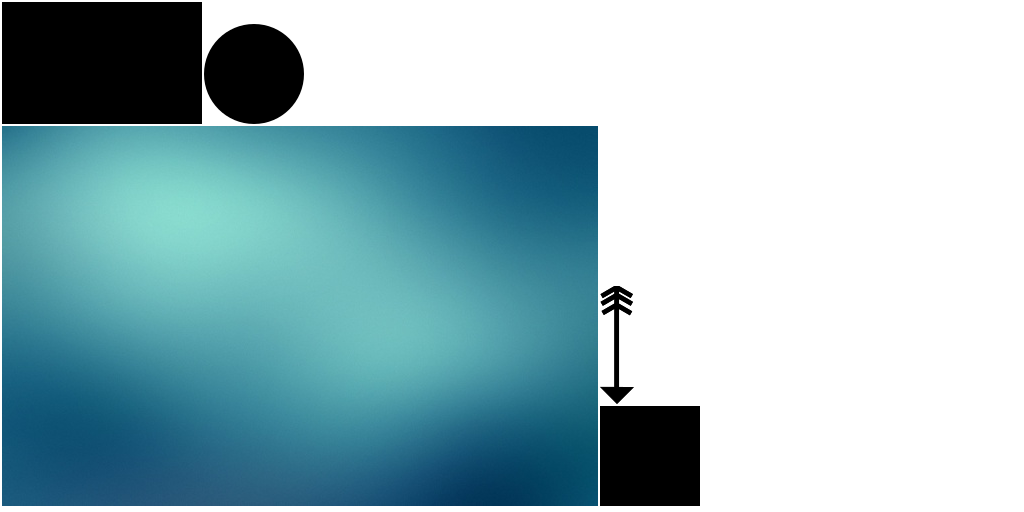
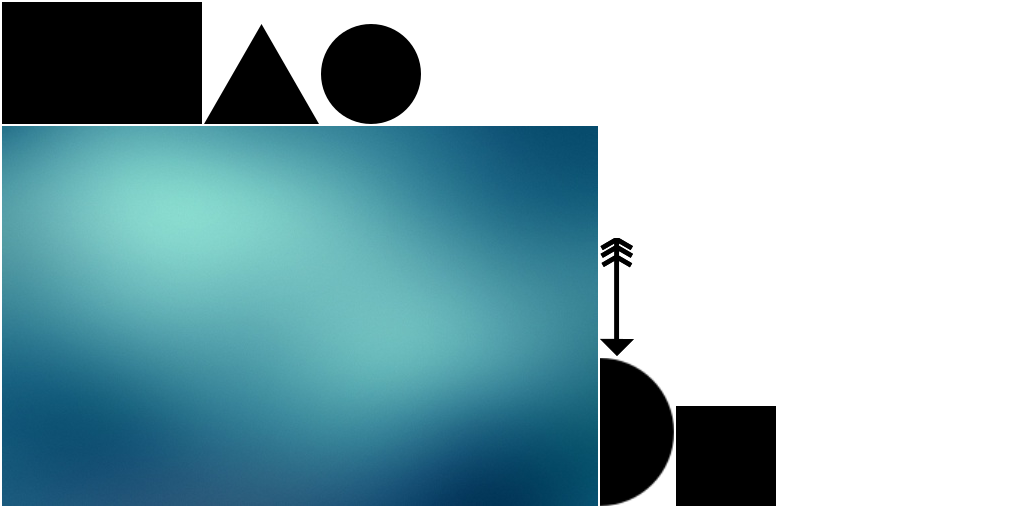
Created Shape classes, begin Screen integration

Changed region(s): [[0.5625, 0.6562, 0.7812, 1.0], [0.1875, 0.0312, 0.4375, 0.25], [0.5625, 0.4688, 0.625, 0.625]]

diff --git a/core/src/com/zenithlabs/shapeescape/ShapeEscape.java b/core/src/com/zenithlabs/shapeescape/ShapeEscape.java
@@ -3,6 +3,7 @@ package com.zenithlabs.shapeescape;
 import com.badlogic.gdx.Application;
 import com.badlogic.gdx.ApplicationAdapter;
 import com.badlogic.gdx.ApplicationListener;
+import com.badlogic.gdx.Game;
 import com.badlogic.gdx.Gdx;
 import com.badlogic.gdx.assets.AssetManager;
 import com.badlogic.gdx.graphics.GL20;
@@ -11,59 +12,18 @@ import com.badlogic.gdx.graphics.g2d.SpriteBatch;
 import com.zenithlabs.shapeescape.game.Assets;
 import com.zenithlabs.shapeescape.game.WorldController;
 import com.zenithlabs.shapeescape.game.WorldRenderer;
+import com.zenithlabs.shapeescape.screens.MenuScreen;
 
-public class ShapeEscape implements ApplicationListener {
-	private WorldController worldController;
-	private WorldRenderer worldRenderer;
-	private boolean paused;
-	
+public class ShapeEscape extends Game {
+
 	@Override
 	public void create () {
 		//Set log level to DEBUG - for publishing switch to NONE
 		Gdx.app.setLogLevel(Application.LOG_DEBUG);
 		//Load assets
 		Assets.getInstance().init(new AssetManager());
-		//Initialize controller and renderer
-		worldController = new WorldController();
-		worldRenderer = new WorldRenderer(worldController);
-	}
-
-	@Override
-	public void render () {
-		//Update game world before rendering takes place
-		worldController.update(Gdx.graphics.getDeltaTime());
-		//Set clear screen color
-		Gdx.gl.glClearColor(1, 0, 100.0f/255.0f, 1);
-		//clear the screen
-		Gdx.gl.glClear(GL20.GL_COLOR_BUFFER_BIT);
-		//Render game world
-		worldRenderer.render();
-	}
-	
-	
-
-	@Override
-	public void resize(int width, int height) {
-		//Resize
-		worldRenderer.resize(width, height);
 		
+		setScreen(new MenuScreen(this));
 	}
 
-	@Override
-	public void pause() {
-		paused = true;
-	}
-
-	@Override
-	public void resume() {
-		Assets.getInstance().init(new AssetManager());
-		paused = false;
-	}
-	
-	@Override
-	public void dispose () {
-		//Free memory
-		worldRenderer.dispose();
-		Assets.getInstance().dispose();
-	}
 }

diff --git a/core/src/com/zenithlabs/shapeescape/screens/GameScreen.java b/core/src/com/zenithlabs/shapeescape/screens/GameScreen.java
@@ -1,0 +1,63 @@
+package com.zenithlabs.shapeescape.screens;
+
+import com.badlogic.gdx.Game;
+import com.badlogic.gdx.Gdx;
+import com.badlogic.gdx.graphics.GL20;
+import com.zenithlabs.shapeescape.game.WorldController;
+import com.zenithlabs.shapeescape.game.WorldRenderer;
+
+public class GameScreen extends AbstractGameScreen {
+	private static final String TAG = GameScreen.class.getName();
+
+	private WorldController worldController;
+	private WorldRenderer worldRenderer;
+
+	private boolean paused;
+
+	public GameScreen(Game game) {
+		super(game);
+	}
+
+	@Override
+	public void render(float deltaTime) {
+		if (!paused) {
+			worldController.update(deltaTime);
+		}
+		Gdx.gl.glClearColor(1, 0, 100.0f / 255.0f, 1);
+		// clear the screen
+		Gdx.gl.glClear(GL20.GL_COLOR_BUFFER_BIT);
+		// Render game world
+		worldRenderer.render();
+	}
+
+	@Override
+	public void resize(int width, int height) {
+		worldRenderer.resize(width, height);
+	}
+
+	@Override
+	public void pause() {
+		paused = true;
+	}
+
+	@Override
+	public void resume() {
+		super.resume();
+		// only called on android
+		paused = false;
+	}
+
+	@Override
+	public void show() {
+		worldController = new WorldController(game);
+		worldRenderer = new WorldRenderer(worldController);
+		Gdx.input.setCatchBackKey(false);
+
+	}
+	
+	@Override
+	public void hide() {
+		worldRenderer.dispose();
+		Gdx.input.setCatchBackKey(false);
+
+	}}

diff --git a/core/src/com/zenithlabs/shapeescape/game/Assets.java b/core/src/com/zenithlabs/shapeescape/game/Assets.java
@@ -22,10 +22,15 @@ public class Assets implements Disposable, AssetErrorListener {
 	private AssetManager assetManager;
 	
 	public AssetArrow arrow;
+	
 	public AssetCircle circle;
 	public AssetSquare square;
 	public AssetRectangle rectangle;
+	public AssetTriangle triangle;
+	public AssetSemiCircle semiCircle;
+	
 	public AssetBackground background;
+	
 	public AssetFonts fonts;
 	
 	
@@ -63,6 +68,8 @@ public class Assets implements Disposable, AssetErrorListener {
 		square = new AssetSquare(atlas);
 		rectangle = new AssetRectangle(atlas);
 		circle = new AssetCircle(atlas);
+		semiCircle = new AssetSemiCircle(atlas);
+		triangle = new AssetTriangle(atlas);
 		
 	}
 	
@@ -115,6 +122,20 @@ public class Assets implements Disposable, AssetErrorListener {
 		public final AtlasRegion rectangle;
 		public AssetRectangle (TextureAtlas atlas) {
 			rectangle = atlas.findRegion("rectangle");
+		}
+	}
+	
+	public class AssetTriangle {
+		public final AtlasRegion triangle;
+		public AssetTriangle (TextureAtlas atlas) {
+			triangle = atlas.findRegion("triangle");
+		}
+	}
+	
+	public class AssetSemiCircle {
+		public final AtlasRegion semiCircle;
+		public AssetSemiCircle (TextureAtlas atlas) {
+			semiCircle = atlas.findRegion("semicircle");
 		}
 	}
 	

diff --git a/core/src/com/zenithlabs/shapeescape/game/WorldController.java b/core/src/com/zenithlabs/shapeescape/game/WorldController.java
@@ -3,6 +3,7 @@
  */
 package com.zenithlabs.shapeescape.game;
 
+import com.badlogic.gdx.Game;
 import com.badlogic.gdx.Gdx;
 import com.badlogic.gdx.graphics.OrthographicCamera;
 import com.badlogic.gdx.graphics.g2d.Sprite;
@@ -13,6 +14,7 @@ import com.badlogic.gdx.utils.Array;
 import com.zenithlabs.shapeescape.objects.AbstractShape;
 import com.zenithlabs.shapeescape.objects.Arrow;
 import com.zenithlabs.shapeescape.objects.Background;
+import com.zenithlabs.shapeescape.screens.MenuScreen;
 import com.zenithlabs.shapeescape.utils.CameraHelper;
 
 /**
@@ -23,6 +25,8 @@ public class WorldController implements Controller {
 
 	private static final String TAG = WorldController.class.getName();
 
+	private Game game;
+	
 	private WorldInput worldInput;
 	
 	public CameraHelper cameraHelper;
@@ -41,7 +45,8 @@ public class WorldController implements Controller {
 	public int coins = 0;
 	public float time = 0;
 	
-	public WorldController() {
+	public WorldController(Game game) {
+		this.game = game;
 		init();
 	}
 	
@@ -100,5 +105,9 @@ public class WorldController implements Controller {
 
 	public OrthographicCamera getCamera() {
 		return this.camera;
+	}
+	
+	public void backToMenu() {
+		game.setScreen(new MenuScreen(game));
 	}
 }

diff --git a/core/src/com/zenithlabs/shapeescape/screens/MenuScreen.java b/core/src/com/zenithlabs/shapeescape/screens/MenuScreen.java
@@ -1,0 +1,51 @@
+package com.zenithlabs.shapeescape.screens;
+
+import com.badlogic.gdx.Game;
+import com.badlogic.gdx.Gdx;
+import com.badlogic.gdx.graphics.GL20;
+
+public class MenuScreen extends AbstractGameScreen {
+	private static final String TAG = MenuScreen.class.getName();
+	
+	//private Background background;
+	
+	public MenuScreen(Game game) {
+		super(game);
+	}
+	
+	private void init() {
+		
+	}
+
+	@Override
+	public void render(float deltaTime) {
+		Gdx.gl.glClearColor(0f, 0f, 0f, 1.0f);
+		Gdx.gl.glClear(GL20.GL_COLOR_BUFFER_BIT);
+		if (Gdx.input.isTouched()) game.setScreen(new GameScreen(game));
+	}
+
+	@Override
+	public void resize(int width, int height) {
+		// TODO Auto-generated method stub
+		
+	}
+
+	@Override
+	public void show() {
+		// TODO Auto-generated method stub
+		
+	}
+
+	@Override
+	public void hide() {
+		// TODO Auto-generated method stub
+		
+	}
+
+	@Override
+	public void pause() {
+		// TODO Auto-generated method stub
+		
+	}
+
+}

diff --git a/core/src/com/zenithlabs/shapeescape/screens/AbstractGameScreen.java b/core/src/com/zenithlabs/shapeescape/screens/AbstractGameScreen.java
@@ -1,0 +1,29 @@
+package com.zenithlabs.shapeescape.screens;
+
+import com.badlogic.gdx.Game;
+import com.badlogic.gdx.Screen;
+import com.badlogic.gdx.assets.AssetManager;
+import com.zenithlabs.shapeescape.game.Assets;
+
+public abstract class AbstractGameScreen implements Screen {
+	protected Game game;
+	
+	public AbstractGameScreen (Game game) {
+		this.game = game;
+	}
+	
+	public abstract void render (float deltaTime);
+	public abstract void resize (int width, int height);
+	public abstract void show();
+	public abstract void hide();
+	public abstract void pause();
+	
+	public void resume() {
+		Assets.getInstance().init(new AssetManager());
+	}
+	
+	public void dispose() {
+		Assets.getInstance().dispose();
+	}
+
+}

diff --git a/core/src/com/zenithlabs/shapeescape/objects/Arrow.java b/core/src/com/zenithlabs/shapeescape/objects/Arrow.java
@@ -17,6 +17,7 @@ public class Arrow extends AbstractShape {
 	private void init() {
 		dimension.set(3.47f, 1);
 		arrow = Assets.getInstance().arrow.arrow;
+		//origin.set(position.x + dimension.x / 2, position.y + dimension.y / 2);
 		scale.set(.5f, .5f); 
 		rotation = 90;
 		rectBound = new Rectangle();
@@ -27,7 +28,11 @@ public class Arrow extends AbstractShape {
 	}
 	@Override
 	public void render(SpriteBatch batch) {
-		batch.draw(arrow, position.x, position.y, origin.x, origin.y, dimension.x, dimension.y, scale.x, scale.y, rotation, true);
+		batch.draw(arrow, position.x, position.y,
+				origin.x, origin.y, dimension.x,
+				dimension.y, scale.x, scale.y, rotation, true);
+		
+
 	}
 
 	@Override

diff --git a/core/src/com/zenithlabs/shapeescape/game/WorldInput.java b/core/src/com/zenithlabs/shapeescape/game/WorldInput.java
@@ -111,8 +111,8 @@ public class WorldInput extends InputAdapter implements InputProcessor {
 			Gdx.app.debug(TAG, "Game world resetted");
 		}
 		// Select next sprite
-		else if (keycode == Keys.SPACE) {
-
+		else if (keycode == Keys.ESCAPE) {
+			worldController.backToMenu();
 		}
 
 		return false;

diff --git a/core/src/com/zenithlabs/shapeescape/objects/SemiCircleShape.java b/core/src/com/zenithlabs/shapeescape/objects/SemiCircleShape.java
@@ -1,0 +1,5 @@
+package com.zenithlabs.shapeescape.objects;
+
+public class SemiCircleShape {
+
+}

diff --git a/core/src/com/zenithlabs/shapeescape/objects/RectangleShape.java b/core/src/com/zenithlabs/shapeescape/objects/RectangleShape.java
@@ -1,0 +1,5 @@
+package com.zenithlabs.shapeescape.objects;
+
+public class RectangleShape {
+
+}

diff --git a/core/src/com/zenithlabs/shapeescape/objects/TriangleShape.java b/core/src/com/zenithlabs/shapeescape/objects/TriangleShape.java
@@ -1,0 +1,5 @@
+package com.zenithlabs.shapeescape.objects;
+
+public class TriangleShape {
+
+}

diff --git a/core/src/com/zenithlabs/shapeescape/objects/CircleShape.java b/core/src/com/zenithlabs/shapeescape/objects/CircleShape.java
@@ -1,0 +1,5 @@
+package com.zenithlabs.shapeescape.objects;
+
+public class CircleShape {
+
+}
